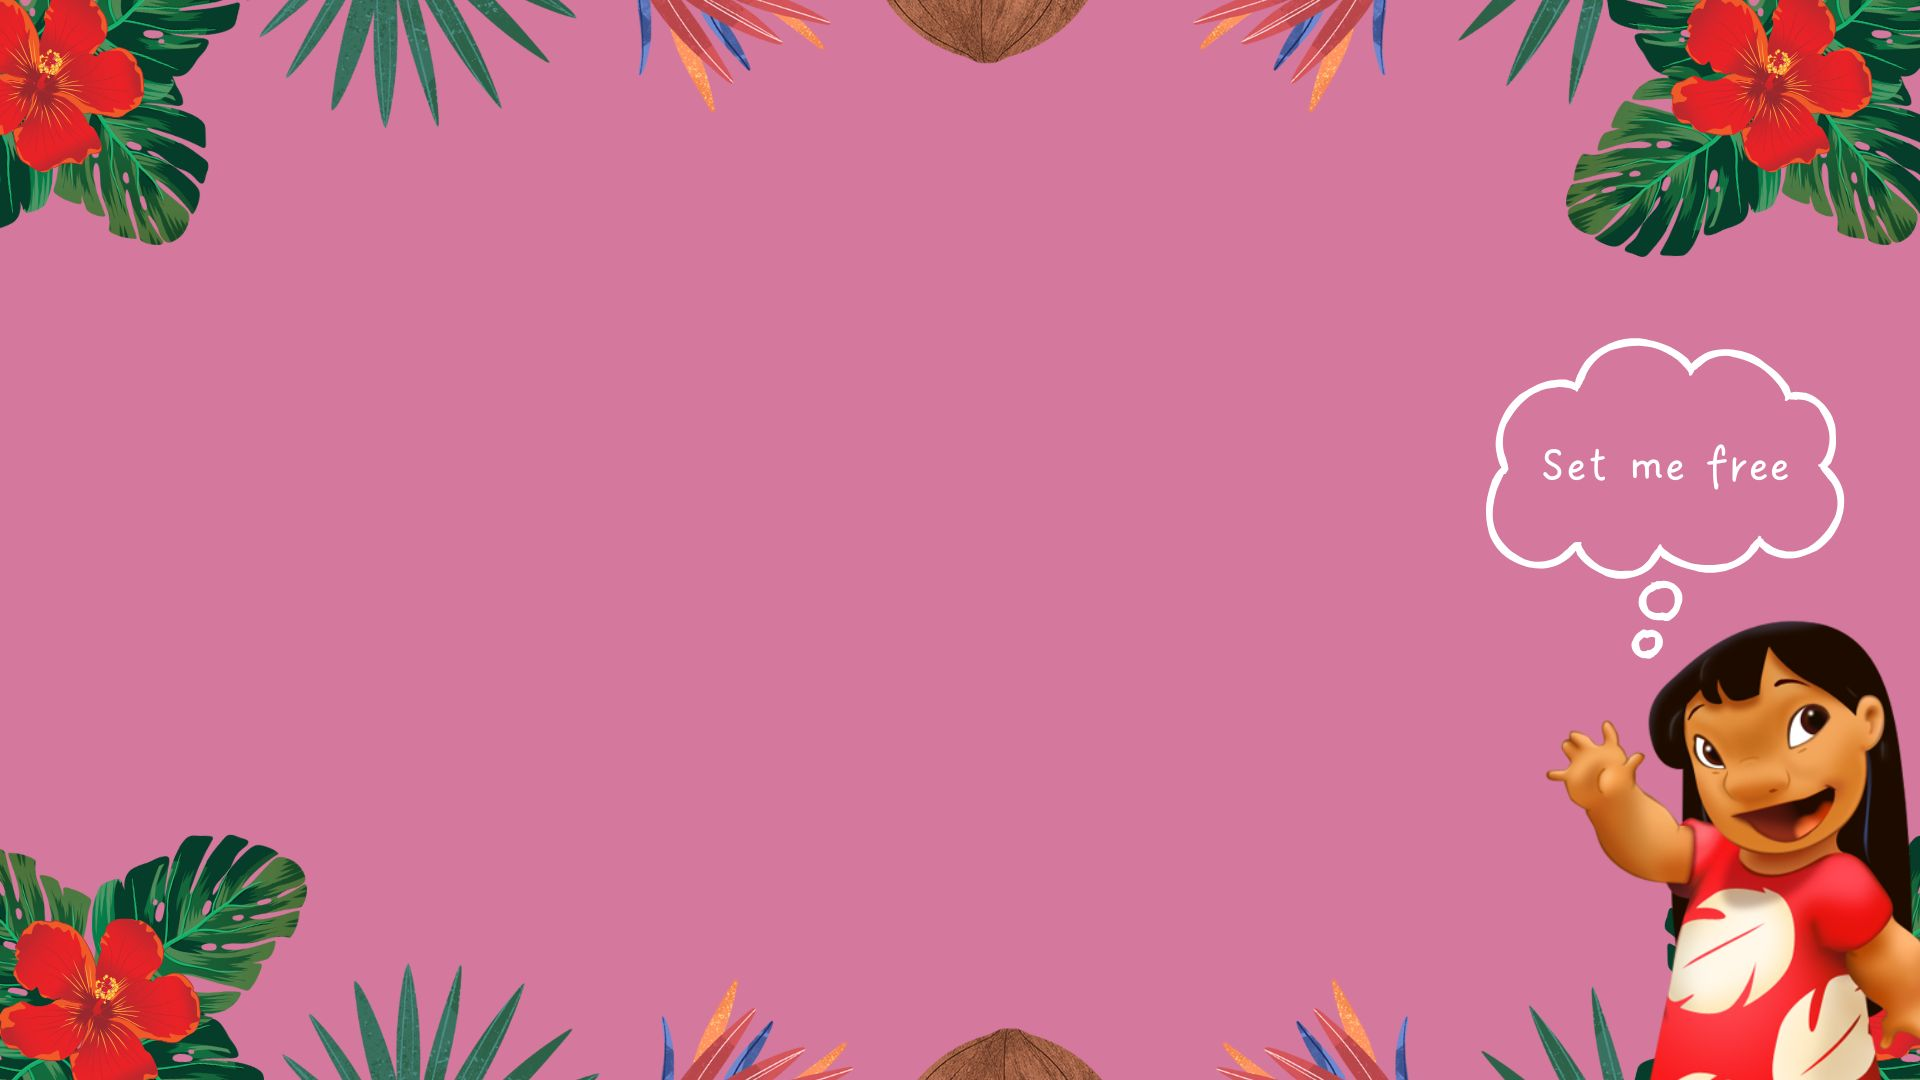
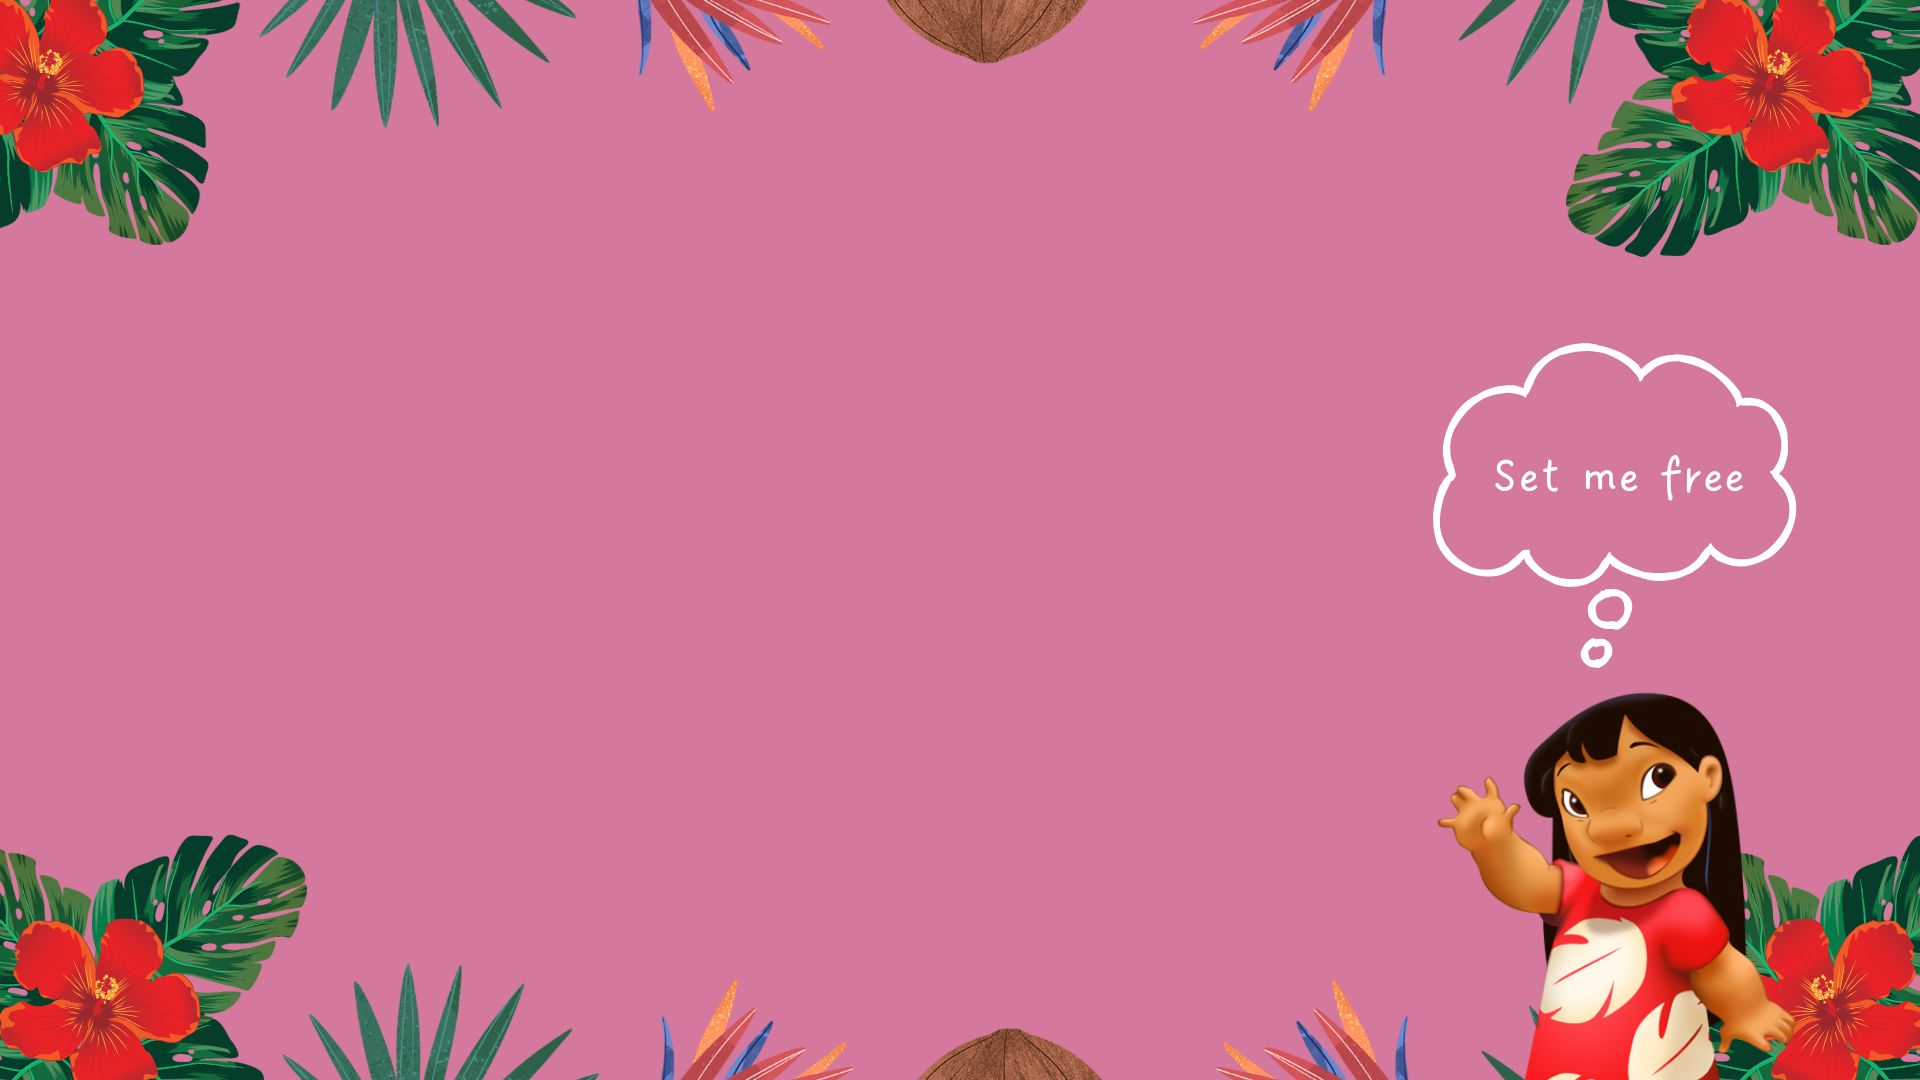
Refactoring the Screens

Changed region(s): [[0.7188, 0.3056, 1.0, 1.0]]

diff --git a/styles/style.css b/styles/style.css
@@ -8,50 +8,57 @@
 body {
   padding: 0;
   margin: 0;
-  text-align: center;
-  font-family: "Dreaming Outloud", sans-serif;
-  background-image: url("/images/background-img.png");
-  background-size: cover;
-  color: white;
-}
-
-#game-intro {
+  width: 100vw;
+  height: 100vh;
   display: flex;
   justify-content: center;
   align-items: center;
+  text-align: center;
+  font-family: "Dreaming Outloud", sans-serif;
+  color: white;
+  background-color: rgba(27, 102, 64, 0.308);
+}
+
+#game-intro {
+  width: 1000px;
+  height: 600px;
+  background-image: url("/images/background-img.png");
+  background-size: cover;
+  border-radius: 2%;
+  box-shadow: 0 4px 12px rgba(0, 0, 0, 0.5);
   position: relative;
 }
 
 #header-actions {
+  position: absolute;
   display: flex;
   flex-direction: column;
   align-items: center;
-  text-align: center;
-  position: absolute;
-  top: 30%;
-  transform: translateY(30%);
+  top: 25%;
+  transform: translateX(110%);
 }
 
 #game-title {
-  font-size: 5.5rem;
+  font-size: 3rem;
   font-weight: 400;
   letter-spacing: 0.3rem;
 }
 
-.stitch {
-  display: flex;
+.stitch,
+.reuben {
   position: absolute;
-  left: 10%;
-  top: 50%;
-  transform: translateY(70%);
+  display: flex;
+}
+
+.stitch {
+  left: 12%;
+  top: 35%;
 }
 
 .stitch img,
 .reuben img {
-  height: 300px;
-  max-width: 100%;
-
-  animation: jump 0.7s ease-in-out infinite;
+  height: 150px;
+  animation: jump 0.8s ease-in-out infinite;
 }
 
 @keyframes jump {
@@ -69,10 +76,8 @@ body {
 }
 
 .reuben {
-  display: flex;
-  position: absolute;
   right: 10%;
-  transform: translateY(190%);
+  transform: translateY(230%);
 }
 
 .custom-btn {
@@ -86,11 +91,10 @@ body {
 }
 
 #start-btn {
-  width: 350px;
-  height: 80px;
-  font-size: 3rem;
-  border-radius: 30px;
-  transition: all 0.3s ease;
+  width: 200px;
+  height: 40px;
+  font-size: 1.7rem;
+  border-radius: 8px;
 }
 
 #start-btn:hover {
@@ -104,19 +108,16 @@ body {
 }
 
 #game-screen {
-  width: 100vw;
-  height: 100vh;
-  justify-content: center;
-  align-items: center;
   background-image: url("/images/background-game.jpg");
-  background-size: 100% 100%;
-  background-position: center;
-  background-repeat: no-repeat;
+  background-size: cover;
+  border-radius: 2%;
+  box-shadow: 0 4px 12px rgba(0, 0, 0, 0.5);
 }
 
 #battle-arena {
-  width: 600px;
-  height: 600px;
+  width: 500px;
+  height: 500px;
   background-color: #f68d77;
   border-radius: 50%;
+  transform: translate(53%, 10%);
 }

diff --git a/js/game.js b/js/game.js
@@ -6,15 +6,15 @@ class Game {
     this.battleArena = document.getElementById("battle-arena");
     this.player = new Player(
       this.battleArena,
-      700,
-      525,
-      130,
+      180,
+      350,
+      150,
       150,
       "/images/stitch.png"
     );
     this.enemy = null;
     this.height = 600;
-    this.width = 500;
+    this.width = 1000;
     this.score = 0;
     this.lives = 3;
     this.gameIsOver = false;
@@ -23,9 +23,9 @@ class Game {
   }
 
   start() {
-    this.gameScreen.style.height = `${this.height}`;
-    this.gameScreen.style.width = `${this.width}`;
-
+    this.gameScreen.style.height = `${this.height}px`;
+    this.gameScreen.style.width = `${this.width}px`;
+    
     this.startScreen.style.display = "none";
     this.gameScreen.style.display = "flex";
     this.gameScreen.appendChild(this.battleArena);

diff --git a/js/player.js b/js/player.js
@@ -52,7 +52,7 @@ class Player {
     arrowHead.setAttribute("fill", "black");
 
     // Rotate the arrow
-    this.arrowElement.setAttribute("transform", "translate(205, 370) rotate(-90)");
+    this.arrowElement.setAttribute("transform", "translate(160, 270) rotate(-90)");
 
     // Append to the arrow element
     this.arrowElement.appendChild(arrowLine);
